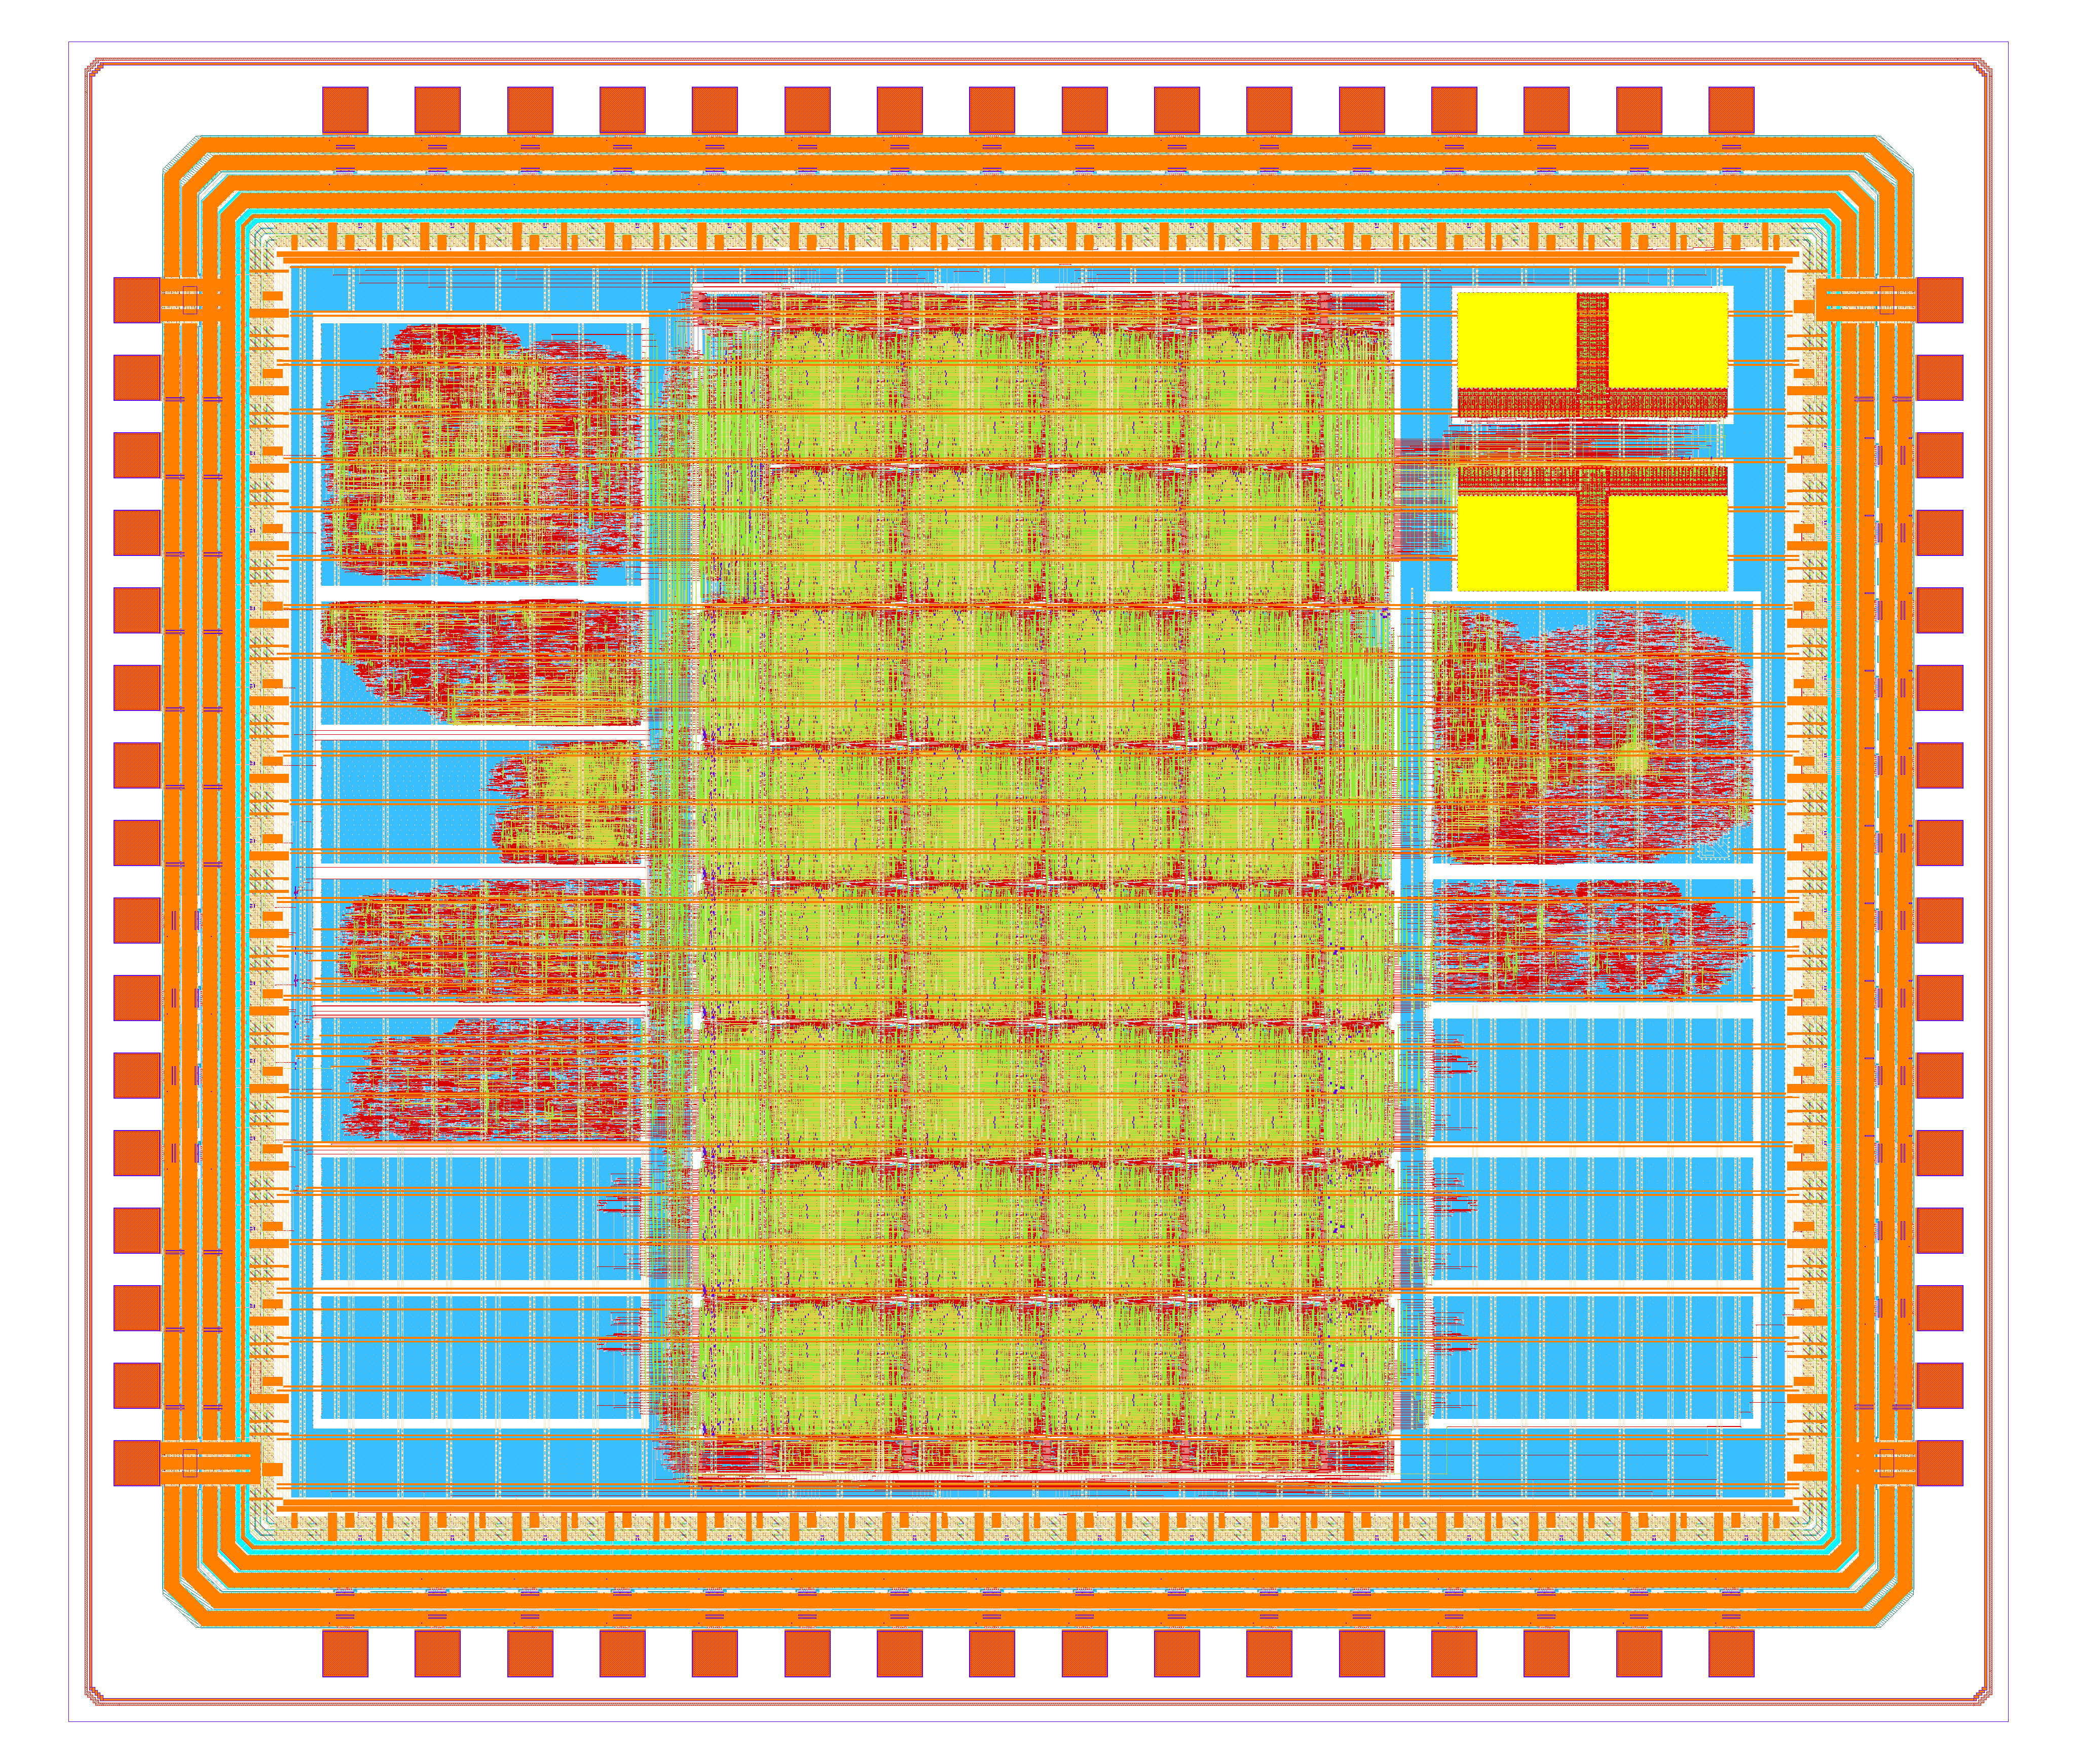
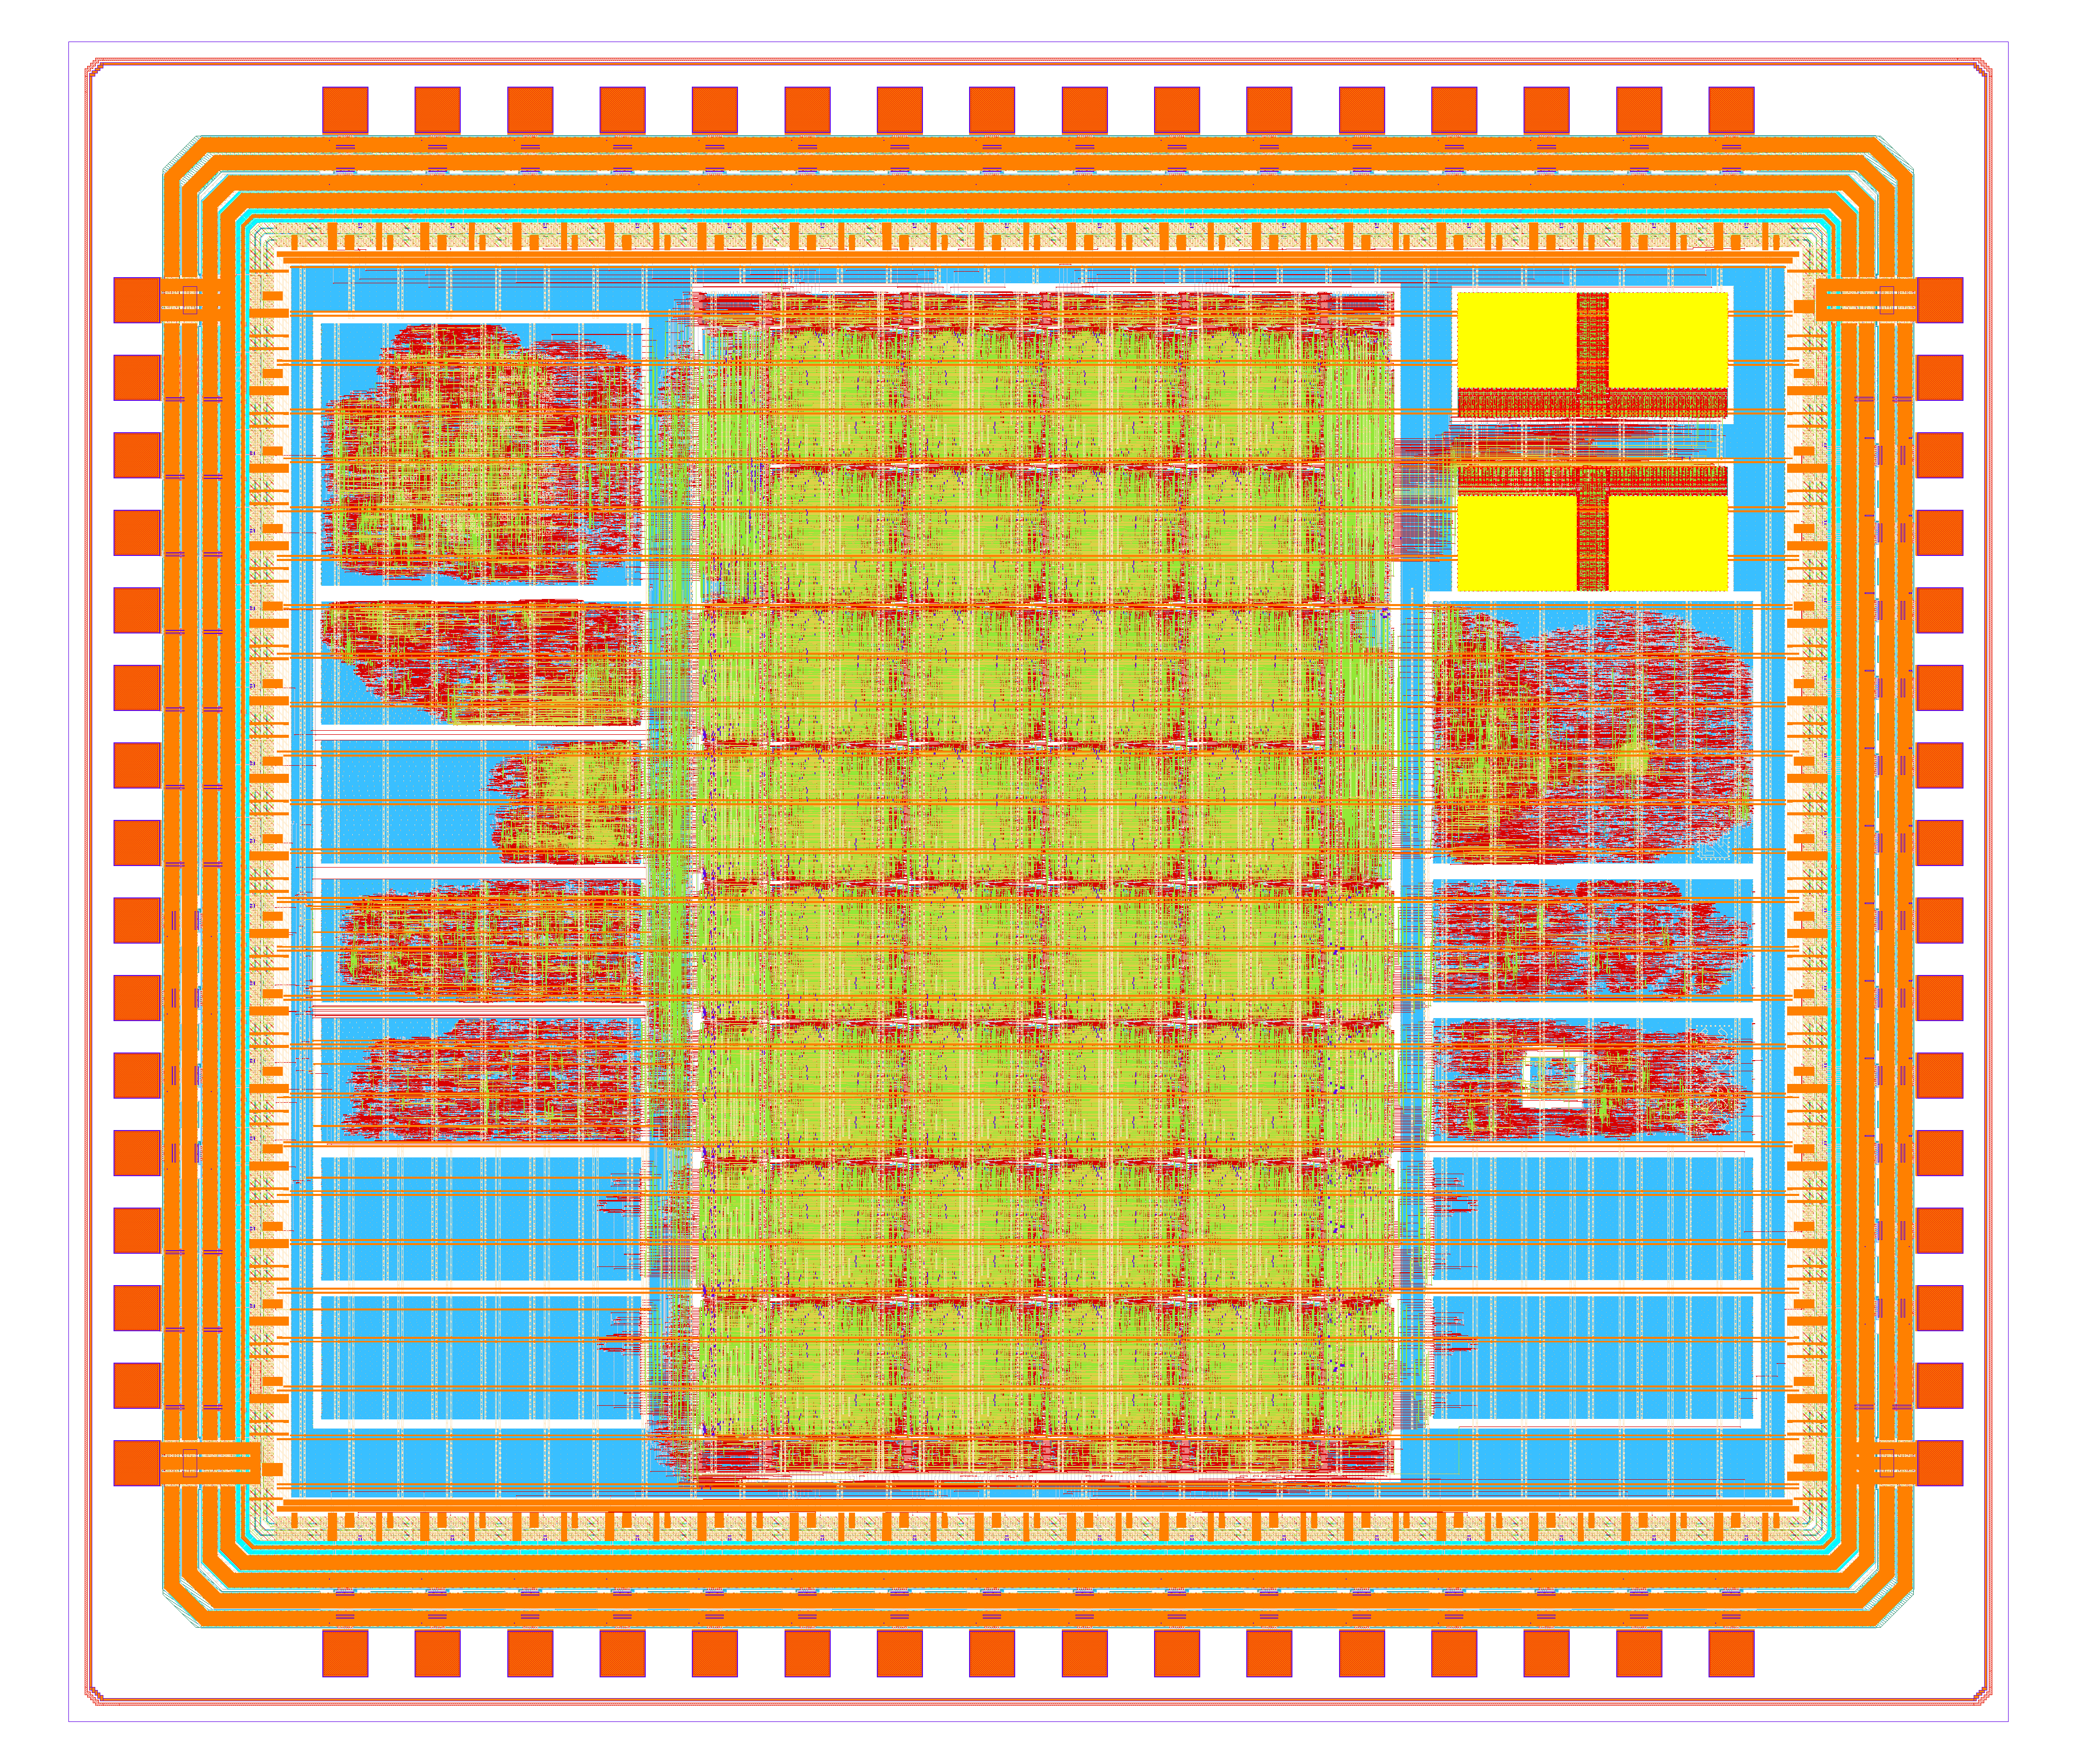
Integrate USB_CDC

Changed region(s): [[0.125, 0.1551, 0.3438, 0.8377], [0.6875, 0.5585, 0.8438, 0.6515], [0.6562, 0.2172, 0.8125, 0.2792]]

diff --git a/ip/fabric/rtl/io_mappings.py b/ip/fabric/rtl/io_mappings.py
@@ -21,7 +21,7 @@ tt_projects = {
     # SRAM Bot
     'X5Y4': ('heichips25_fazyrv_exotiny', 'heichips25_example_large_1'),
     'X5Y5': ('heichips25_bagel', 'heichips25_example_small_6'),
-    'X5Y6': ('heichips25_example_small', 'heichips25_example_small_7'),
+    'X5Y6': ('heichips25_usb_cdc', 'heichips25_example_small_7'),
     'X5Y7': ('heichips25_example_small', 'heichips25_example_small_8'),
     'X5Y8': ('heichips25_example_small', 'heichips25_example_small_9'),
 }